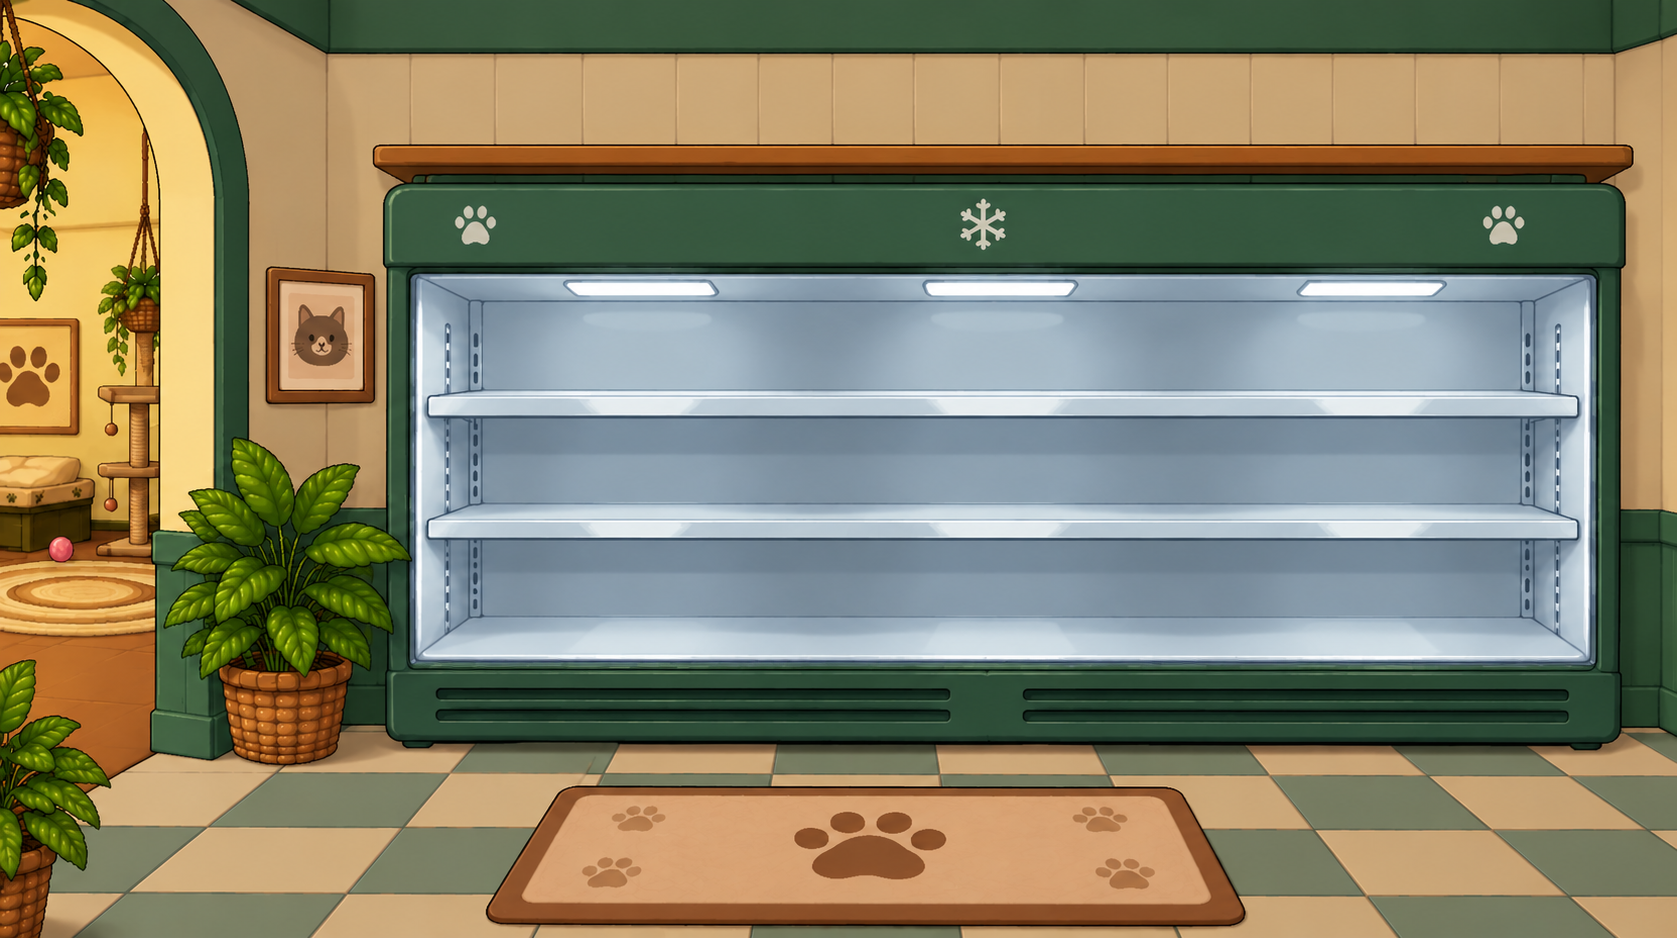
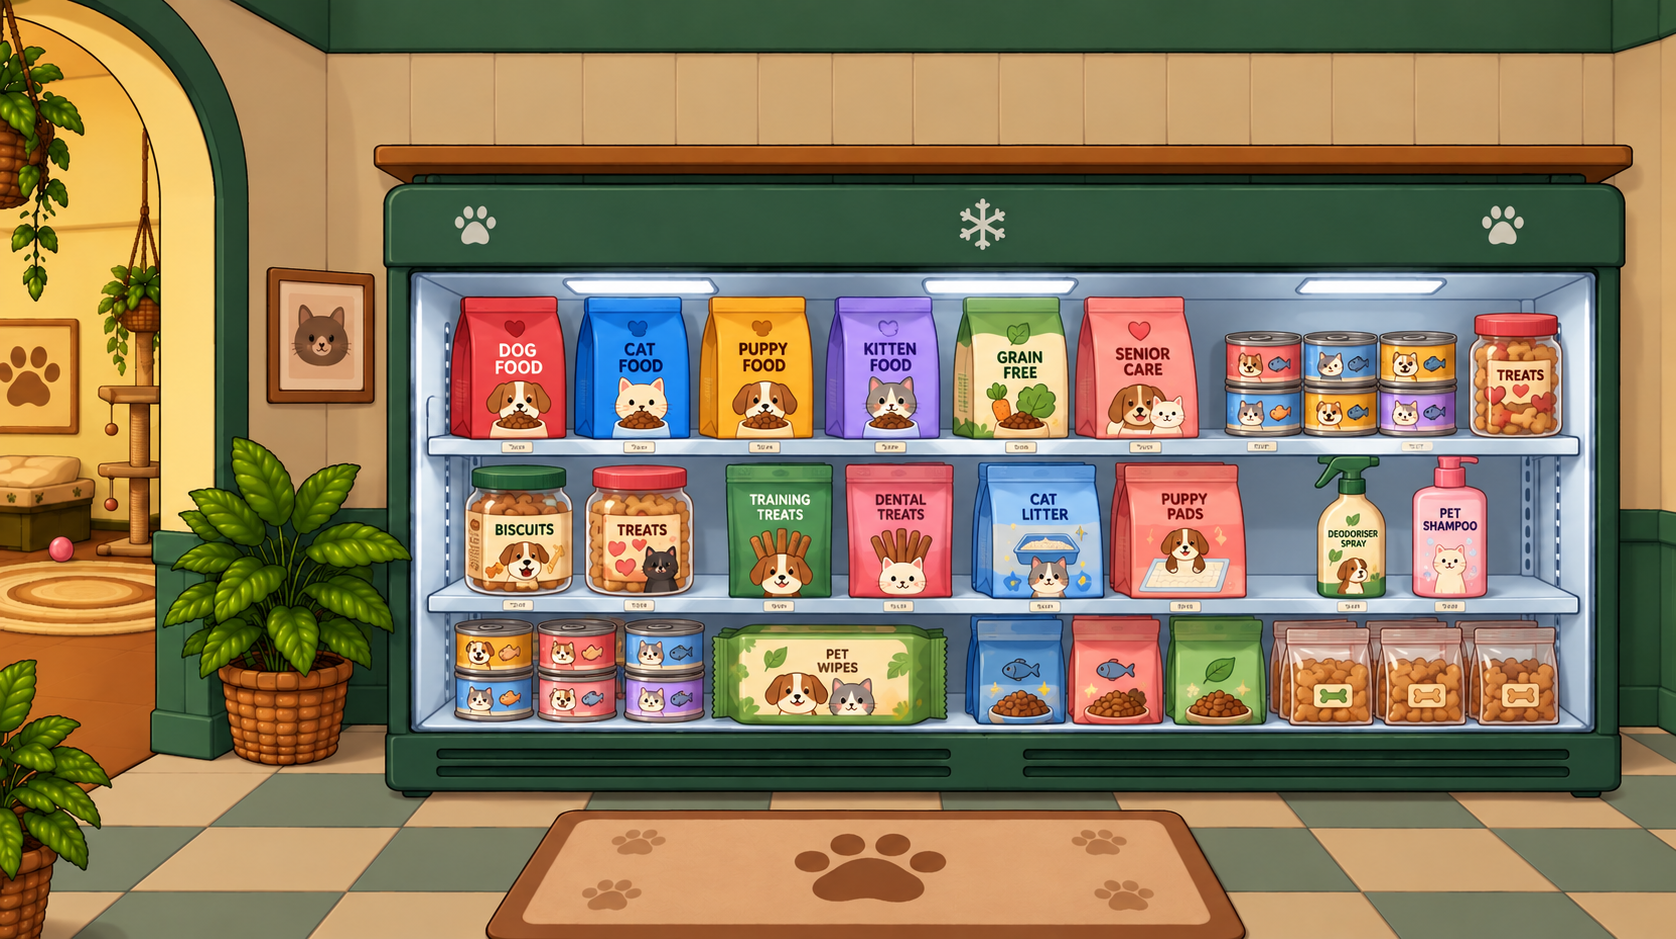
Pet food aisle: use the pre-stocked fridge art with invisible product hotspots
Claude-Session: https://claude.ai/code/session_01KbwSo6yL3mitC5MkkWGPtA

diff --git a/src/screens/PetFoodScreen.js b/src/screens/PetFoodScreen.js
@@ -1,5 +1,5 @@
 import React, { useState } from 'react';
-import { View, Image, Pressable, TouchableOpacity, Platform, StyleSheet } from 'react-native';
+import { View, Image, Pressable, TouchableOpacity, StyleSheet } from 'react-native';
 import { useGame } from '../context/GameContext';
 import { PETFOOD_BG, PETFOOD_IMAGES, PET_IMAGES } from '../engine/assets';
 import {
@@ -10,31 +10,43 @@ import ScreenHud from '../components/ScreenHud';
 import InventoryOverlay from '../components/InventoryOverlay';
 import { PixelText, PixelPanel, PixelButton, COLORS } from '../components/Pixel';
 
-// The pet food aisle: a chilled cabinet with three shelves (aisle.png, 1677×938,
-// stretched to the screen like the pet shop). Every product sits on its shelf and
-// opens a small card: pick a pet and it eats right away; litter and pads look
-// after every pet of that kind at once.
-const BG_W = 1677;
-const BG_H = 938;
-const SHELF_BASE = [402, 522, 650];         // y of each shelf surface, bg px
-const COL_X = [540, 720, 900, 1080, 1260, 1440];
-// How tall each product stands on the shelf, bg px, so bags tower over tins like real stock
-const SHELF_H = {
-  dogfood: 100, catfood: 100, puppyfood: 98, kittenfood: 98, grainfree: 100, seniorcare: 100,
-  wetcat: 58, wetdog: 58, biscuits: 72, treats: 72, dental: 82, training: 82,
-  catlitter: 100, clumping: 98, puppypads: 84, wipes: 56, deodoriser: 96, shampoo: 90,
-};
-const MAX_W = 150;
-
-// width / height of each cut-out
-const ASPECT = {
-  dogfood: 127 / 200, catfood: 126 / 200, puppyfood: 126 / 200, kittenfood: 125 / 200, grainfree: 126 / 200, seniorcare: 132 / 200,
-  wetcat: 1, wetdog: 200 / 194, biscuits: 156 / 200, treats: 160 / 200, dental: 148 / 200, training: 146 / 200,
-  catlitter: 131 / 200, clumping: 142 / 200, puppypads: 154 / 200, wipes: 200 / 131, deodoriser: 80 / 200, shampoo: 86 / 200,
-};
-
-// back-row copies are a little darker, as if further in
-const DIM = Platform.OS === 'web' ? { filter: 'brightness(0.82) saturate(0.9)' } : { opacity: 0.8 };
+// The pet food aisle: the stocked fridge is painted into aisle.png (1676×939,
+// stretched to the screen like the pet shop). Invisible hotspots sit over each
+// product; hovering one outlines it, tapping opens a small card: pick a pet and it
+// eats right away; litter and pads look after every pet of that kind at once.
+const BG_W = 1676;
+const BG_H = 939;
+// [item, x0, y0, x1, y1] in aisle.png pixels. Where the art shows the same product
+// in several places, each one opens the same item.
+const SPOTS = [
+  ['dogfood', 452, 296, 566, 440],
+  ['catfood', 580, 296, 690, 440],
+  ['puppyfood', 700, 296, 812, 440],
+  ['kittenfood', 826, 296, 940, 440],
+  ['grainfree', 953, 296, 1068, 440],
+  ['seniorcare', 1080, 296, 1198, 440],
+  ['wetcat', 1225, 330, 1375, 438],
+  ['wetdog', 1378, 330, 1457, 438],
+  ['treats', 1470, 314, 1562, 438],
+  ['biscuits', 465, 466, 575, 596],
+  ['treats', 585, 466, 695, 596],
+  ['training', 725, 464, 832, 598],
+  ['dental', 845, 464, 952, 598],
+  ['catlitter', 975, 462, 1105, 598],
+  ['puppypads', 1112, 462, 1245, 598],
+  ['deodoriser', 1315, 455, 1387, 598],
+  ['shampoo', 1412, 455, 1488, 598],
+  ['wetdog', 455, 618, 537, 722],
+  ['wetcat', 538, 618, 620, 722],
+  ['wetcat', 624, 618, 706, 722],
+  ['wipes', 714, 626, 946, 722],
+  ['catfood', 965, 618, 1065, 725],
+  ['kittenfood', 1070, 615, 1165, 725],
+  ['grainfree', 1168, 618, 1265, 725],
+  ['biscuits', 1272, 622, 1370, 724],
+  ['biscuits', 1372, 622, 1468, 724],
+  ['biscuits', 1470, 622, 1562, 724],
+];
 
 const KIND_LABEL = { dog: 'dogs', cat: 'cats', any: 'any pet' };
 const SINGULAR = { dog: 'dog', cat: 'cat', any: 'pet' };
@@ -134,63 +146,29 @@ export default function PetFoodScreen({ navigation }) {
     <View style={styles.root} onLayout={(e) => setBox({ w: e.nativeEvent.layout.width, h: e.nativeEvent.layout.height })}>
       <Image source={PETFOOD_BG} style={styles.bg} resizeMode="stretch" />
 
-      {sw > 0 && PET_FOOD.map((item) => {
-        const ar = ASPECT[item.key];
-        let h = SHELF_H[item.key];
-        if (h * ar > MAX_W) h = MAX_W / ar;
-        const w = h * ar;
-        const pw = (w / BG_W) * sw, ph = (h / BG_H) * sh;
-        const cx = (COL_X[item.col] / BG_W) * sw;
-        const base = ((SHELF_BASE[item.row] + 3) / BG_H) * sh;       // sits a touch into the shelf
-        const on = hovered === item.key;
-        const back = { w: pw * 0.92, h: ph * 0.92 };
-        const gap = Math.max(pw * 0.38, (30 / BG_W) * sw); // two facings side by side
-        const facing = (dx) => {
-          const left = cx + dx - pw / 2;
-          return (
-            <React.Fragment key={dx}>
-              {/* soft shadow where it stands */}
-              <View pointerEvents="none" style={{ position: 'absolute', zIndex: 4, left: left - pw * 0.06, top: base - sh * 0.006, width: pw * 1.12, height: Math.max(4, sh * 0.016), borderRadius: 50, backgroundColor: 'rgba(30,50,70,0.3)' }} />
-              <Pressable
-                style={{ position: 'absolute', left, top: base - ph, width: pw, height: ph, zIndex: on ? 40 : dx < 0 ? 5 : 6, transform: [{ translateY: on ? -3 : 0 }] }}
-                onHoverIn={() => setHovered(item.key)}
-                onHoverOut={() => setHovered((k) => (k === item.key ? null : k))}
-                onPress={() => setPicked(item)}
-              >
-                <Image source={PETFOOD_IMAGES[item.key]} style={{ width: '100%', height: '100%' }} resizeMode="contain" />
-                {on && dx < 0 && (
-                  <View style={[styles.tag, { left: -50, right: -50 + gap * 2 }]} pointerEvents="none">
-                    <PixelText size={8}>{item.name.toUpperCase()}</PixelText>
-                    <PixelText size={7} color={COLORS.gold}>{`${item.price} COINS`}</PixelText>
-                  </View>
-                )}
-              </Pressable>
-            </React.Fragment>
-          );
-        };
+      {sw > 0 && SPOTS.map(([key, x0, y0, x1, y1], i) => {
+        const item = PET_FOOD.find((f) => f.key === key);
+        const on = hovered === i;
         return (
-          <React.Fragment key={item.key}>
-            {/* one more behind, a little darker and higher, so the shelf looks stocked */}
-            <Image
-              source={PETFOOD_IMAGES[item.key]}
-              pointerEvents="none"
-              style={[{ position: 'absolute', zIndex: 3, left: cx - back.w / 2, top: base - back.h - sh * 0.012, width: back.w, height: back.h }, DIM]}
-              resizeMode="contain"
-            />
-            {facing(-gap)}
-            {facing(gap)}
-          </React.Fragment>
+          <Pressable
+            key={i}
+            style={[styles.spot, {
+              left: (x0 / BG_W) * sw, top: (y0 / BG_H) * sh, width: ((x1 - x0) / BG_W) * sw, height: ((y1 - y0) / BG_H) * sh,
+              zIndex: on ? 40 : 5,
+            }, on && styles.spotOn]}
+            onHoverIn={() => setHovered(i)}
+            onHoverOut={() => setHovered((h) => (h === i ? null : h))}
+            onPress={() => setPicked(item)}
+          >
+            {on && (
+              <View style={styles.tag} pointerEvents="none">
+                <PixelText size={8}>{item.name.toUpperCase()}</PixelText>
+                <PixelText size={7} color={COLORS.gold}>{`${item.price} COINS`}</PixelText>
+              </View>
+            )}
+          </Pressable>
         );
       })}
-
-      {/* a faint glass glare across the cabinet, over the stock */}
-      {sw > 0 && (
-        <View pointerEvents="none" style={{ position: 'absolute', zIndex: 20, left: (425 / BG_W) * sw, top: (285 / BG_H) * sh, width: (1150 / BG_W) * sw, height: (380 / BG_H) * sh, overflow: 'hidden' }}>
-          <View style={[styles.glare, { left: '12%', width: '7%' }]} />
-          <View style={[styles.glare, { left: '22%', width: '2.5%', opacity: 0.7 }]} />
-          <View style={[styles.glare, { left: '68%', width: '5%', opacity: 0.6 }]} />
-        </View>
-      )}
 
       <View style={styles.back}>
         <PixelButton label="< PET SHOP" tone="wood" size={8} onPress={() => navigation.navigate('PetShop')} />
@@ -207,7 +185,8 @@ export default function PetFoodScreen({ navigation }) {
 const styles = StyleSheet.create({
   root: { flex: 1, backgroundColor: '#1a1200' },
   bg: { position: 'absolute', top: 0, left: 0, right: 0, bottom: 0, width: '100%', height: '100%' },
-  glare: { position: 'absolute', top: '-10%', height: '130%', backgroundColor: 'rgba(255,255,255,0.10)', transform: [{ skewX: '-14deg' }] },
+  spot: { position: 'absolute', borderRadius: 6 },
+  spotOn: { borderWidth: 2, borderColor: 'rgba(255,255,255,0.85)', backgroundColor: 'rgba(255,255,255,0.12)' },
   tag: { position: 'absolute', bottom: '100%', left: -50, right: -50, alignItems: 'center', gap: 2, marginBottom: 2 },
   back: { position: 'absolute', right: 16, bottom: 12, zIndex: 30 },
   overlay: { ...StyleSheet.absoluteFillObject, backgroundColor: 'rgba(0,0,0,0.6)', alignItems: 'center', justifyContent: 'center', zIndex: 200 },

diff --git a/src/constants/gameData.js b/src/constants/gameData.js
@@ -169,7 +169,7 @@ export const PETS = {
 // the food wears off (hours stack up to FED_MAX_HOURS). Nothing bad happens to a
 // hungry pet. for = which pets can eat/use it. scope 'one' = you choose a pet,
 // 'species' = every owned pet of that kind (litter and pads keep the whole
-// household happy). Row/col place it on the aisle shelves.
+// household happy).
 export const PET_SPECIES = {
   george: 'cat', koazy: 'cat', martin: 'cat', tiger: 'cat', milk: 'cat', oreo: 'cat', ebonyandivory: 'cat',
   storm: 'dog', brownie: 'dog', aki: 'dog', cherry: 'dog',
@@ -177,27 +177,26 @@ export const PET_SPECIES = {
 export const FED_BOOST = 2;        // perk strength while fed
 export const FED_MAX_HOURS = 72;
 export const PET_FOOD = [
-  // row 1: bagged food
-  { key: 'dogfood',    name: 'Dog Food',        price: 30, hours: 24, for: 'dog', scope: 'one', row: 0, col: 0 },
-  { key: 'catfood',    name: 'Cat Food',        price: 30, hours: 24, for: 'cat', scope: 'one', row: 0, col: 1 },
-  { key: 'puppyfood',  name: 'Puppy Food',      price: 40, hours: 30, for: 'dog', scope: 'one', row: 0, col: 2 },
-  { key: 'kittenfood', name: 'Kitten Food',     price: 40, hours: 30, for: 'cat', scope: 'one', row: 0, col: 3 },
-  { key: 'grainfree',  name: 'Grain Free',      price: 60, hours: 36, for: 'dog', scope: 'one', row: 0, col: 4 },
-  { key: 'seniorcare', name: 'Senior Care',     price: 60, hours: 36, for: 'any', scope: 'one', row: 0, col: 5 },
-  // row 2: tins and treats
-  { key: 'wetcat',     name: 'Wet Food (Cat)',  price: 20, hours: 12, for: 'cat', scope: 'one', row: 1, col: 0 },
-  { key: 'wetdog',     name: 'Wet Food (Dog)',  price: 20, hours: 12, for: 'dog', scope: 'one', row: 1, col: 1 },
-  { key: 'biscuits',   name: 'Biscuits',        price: 12, hours: 8,  for: 'dog', scope: 'one', row: 1, col: 2 },
-  { key: 'treats',     name: 'Cat Treats',      price: 12, hours: 8,  for: 'cat', scope: 'one', row: 1, col: 3 },
-  { key: 'dental',     name: 'Dental Treats',   price: 25, hours: 16, for: 'any', scope: 'one', row: 1, col: 4 },
-  { key: 'training',   name: 'Training Treats', price: 25, hours: 16, for: 'dog', scope: 'one', row: 1, col: 5 },
-  // row 3: litter, pads and grooming
-  { key: 'catlitter',  name: 'Cat Litter',      price: 35, hours: 24, for: 'cat', scope: 'species', row: 2, col: 0 },
-  { key: 'clumping',   name: 'Clumping Litter', price: 50, hours: 36, for: 'cat', scope: 'species', row: 2, col: 1 },
-  { key: 'puppypads',  name: 'Puppy Pads',      price: 35, hours: 24, for: 'dog', scope: 'species', row: 2, col: 2 },
-  { key: 'wipes',      name: 'Pet Wipes',       price: 15, hours: 12, for: 'any', scope: 'one', row: 2, col: 3 },
-  { key: 'deodoriser', name: 'Deodoriser Spray', price: 22, hours: 18, for: 'any', scope: 'one', row: 2, col: 4 },
-  { key: 'shampoo',    name: 'Pet Shampoo',     price: 30, hours: 24, for: 'any', scope: 'one', row: 2, col: 5 },
+  // bagged food
+  { key: 'dogfood',    name: 'Dog Food',        price: 30, hours: 24, for: 'dog', scope: 'one' },
+  { key: 'catfood',    name: 'Cat Food',        price: 30, hours: 24, for: 'cat', scope: 'one' },
+  { key: 'puppyfood',  name: 'Puppy Food',      price: 40, hours: 30, for: 'dog', scope: 'one' },
+  { key: 'kittenfood', name: 'Kitten Food',     price: 40, hours: 30, for: 'cat', scope: 'one' },
+  { key: 'grainfree',  name: 'Grain Free',      price: 60, hours: 36, for: 'dog', scope: 'one' },
+  { key: 'seniorcare', name: 'Senior Care',     price: 60, hours: 36, for: 'any', scope: 'one' },
+  // tins and treats
+  { key: 'wetcat',     name: 'Wet Food (Cat)',  price: 20, hours: 12, for: 'cat', scope: 'one' },
+  { key: 'wetdog',     name: 'Wet Food (Dog)',  price: 20, hours: 12, for: 'dog', scope: 'one' },
+  { key: 'biscuits',   name: 'Biscuits',        price: 12, hours: 8,  for: 'dog', scope: 'one' },
+  { key: 'treats',     name: 'Cat Treats',      price: 12, hours: 8,  for: 'cat', scope: 'one' },
+  { key: 'dental',     name: 'Dental Treats',   price: 25, hours: 16, for: 'any', scope: 'one' },
+  { key: 'training',   name: 'Training Treats', price: 25, hours: 16, for: 'dog', scope: 'one' },
+  // litter, pads and grooming
+  { key: 'catlitter',  name: 'Cat Litter',      price: 35, hours: 24, for: 'cat', scope: 'species' },
+  { key: 'puppypads',  name: 'Puppy Pads',      price: 35, hours: 24, for: 'dog', scope: 'species' },
+  { key: 'wipes',      name: 'Pet Wipes',       price: 15, hours: 12, for: 'any', scope: 'one' },
+  { key: 'deodoriser', name: 'Deodoriser Spray', price: 22, hours: 18, for: 'any', scope: 'one' },
+  { key: 'shampoo',    name: 'Pet Shampoo',     price: 30, hours: 24, for: 'any', scope: 'one' },
 ];
 
 // ── Pre-determined pet positions per room ─────────────────────────────────────

diff --git a/src/engine/assets.js b/src/engine/assets.js
@@ -240,7 +240,6 @@ export const PETFOOD_IMAGES = {
   dental: require('../../assets/petfood/dental.png'),
   training: require('../../assets/petfood/training.png'),
   catlitter: require('../../assets/petfood/catlitter.png'),
-  clumping: require('../../assets/petfood/clumping.png'),
   puppypads: require('../../assets/petfood/puppypads.png'),
   wipes: require('../../assets/petfood/wipes.png'),
   deodoriser: require('../../assets/petfood/deodoriser.png'),
